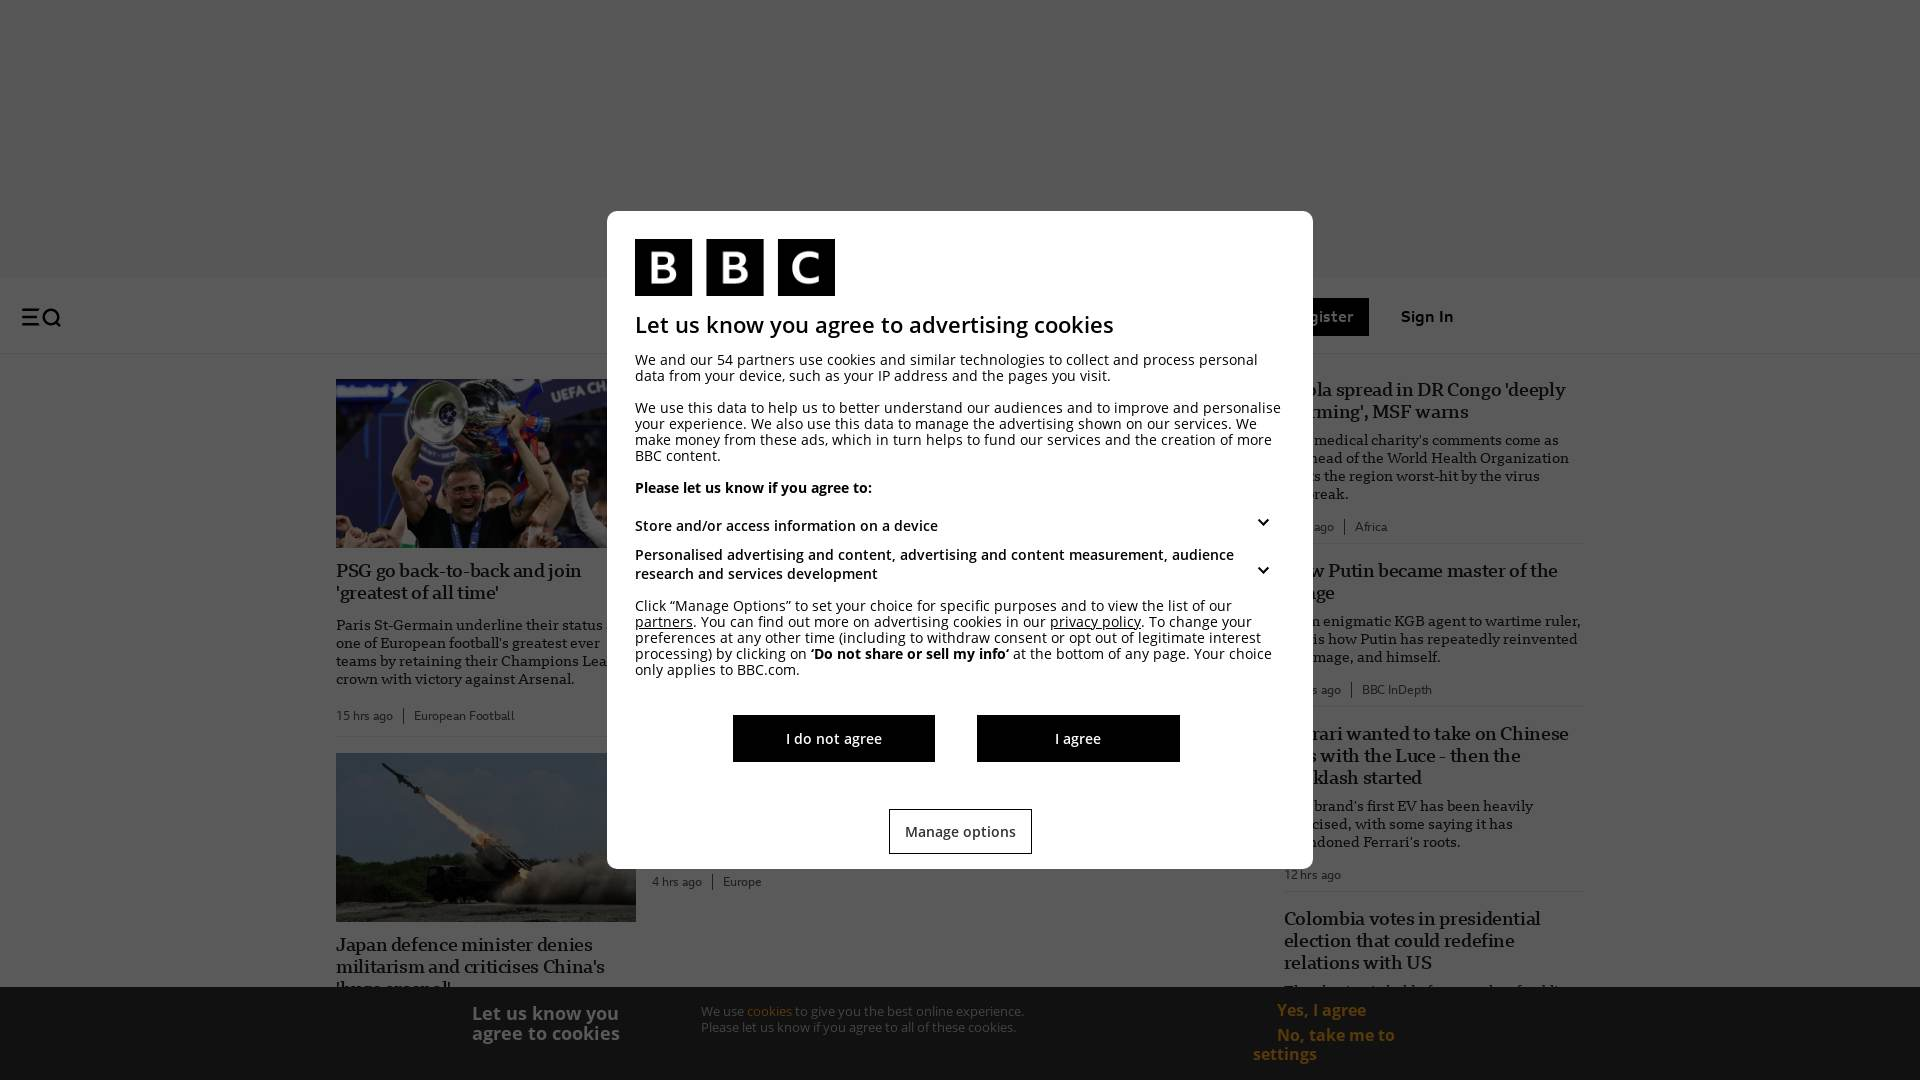
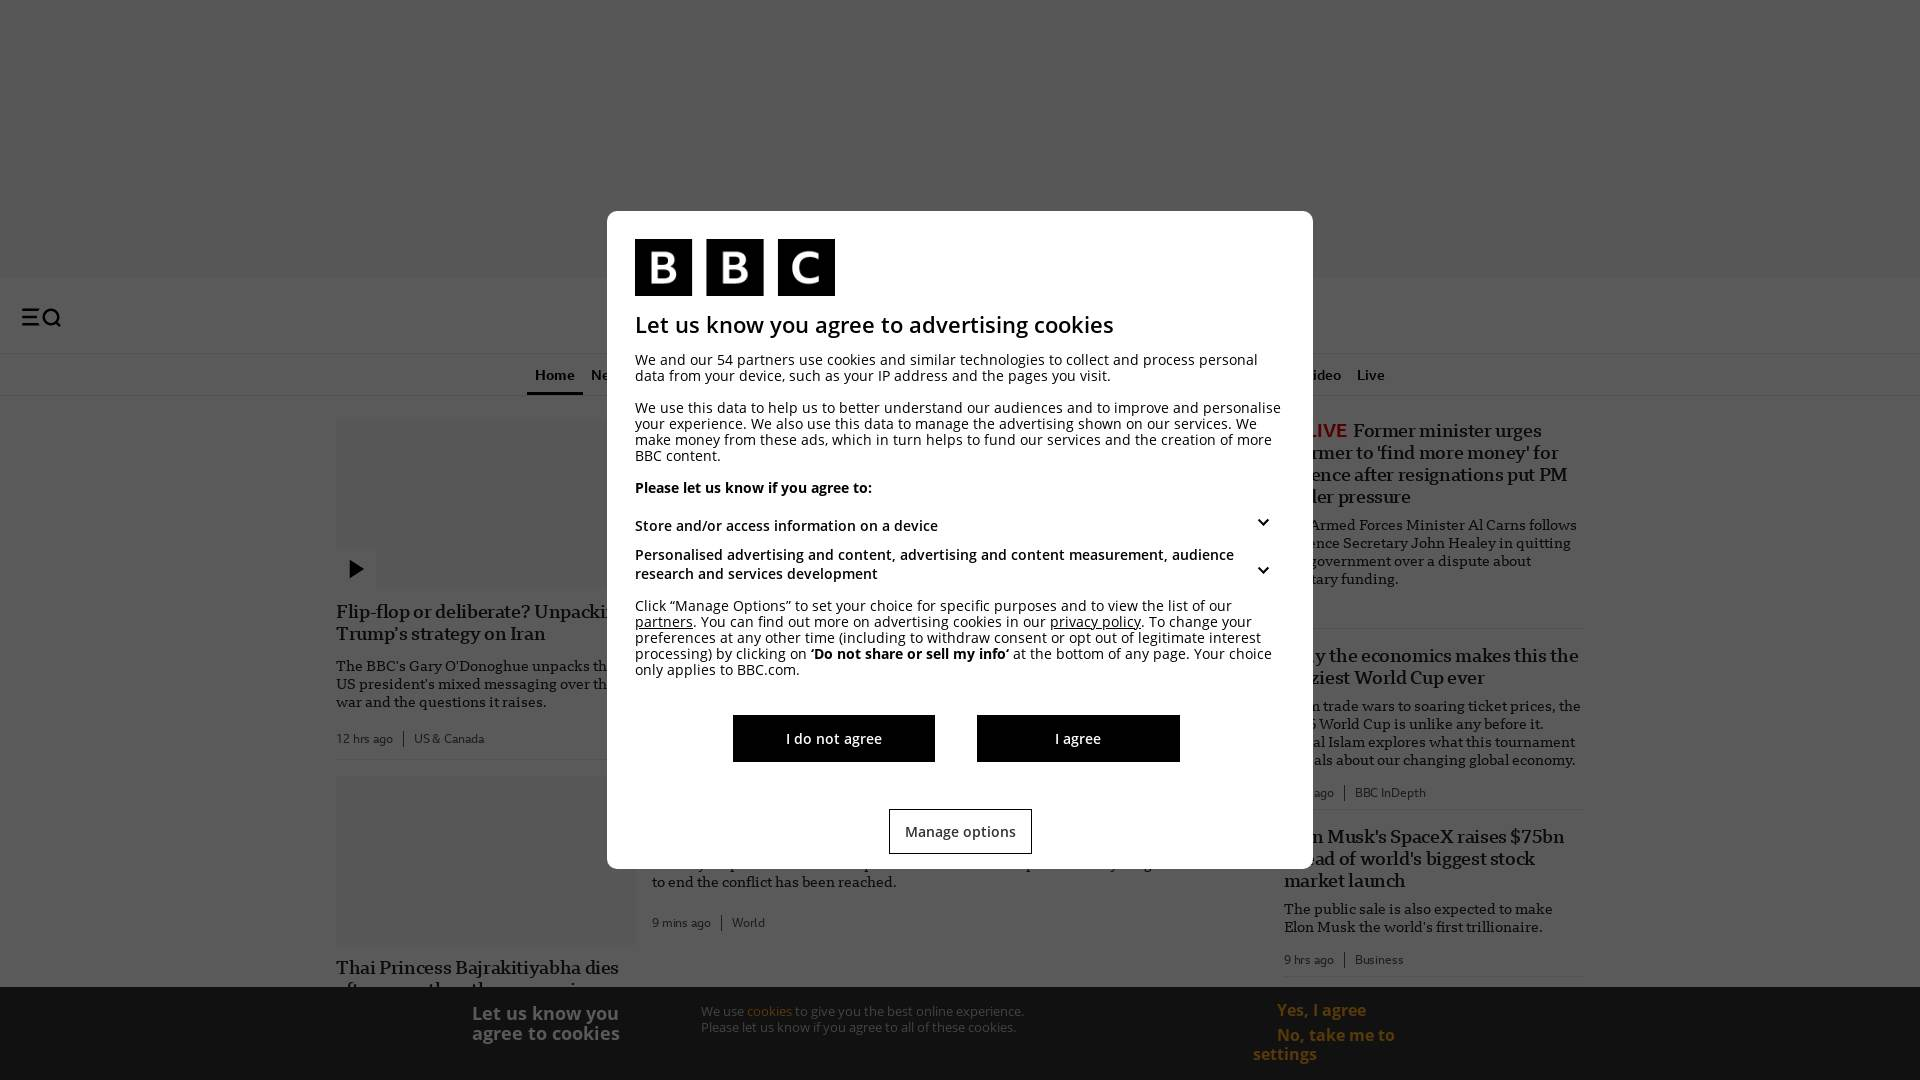
Disable show when video writer is enabled

Changed region(s): [[0.1562, 0.3361, 0.4688, 0.9167], [0.6562, 0.275, 0.8125, 0.9167]]

diff --git a/abraia/utils/video.py b/abraia/utils/video.py
@@ -10,6 +10,7 @@ import numpy as np
 from pathlib import Path
 from typing import Dict, Generator, List, Optional, Tuple, Callable, Any
 
+from . import make_dirs
 from .draw import (
     render_resolution,
     render_status,
@@ -18,6 +19,7 @@ from .draw import (
 )
 
 logger = logging.getLogger(__name__)
+
 
 VIDEO_SUFFIXES = (".mp4", ".avi", ".mov", ".mkv")
 IMAGE_EXTENSIONS: Tuple[str, ...] = (".jpg", ".jpeg", ".png", ".bmp")
@@ -36,9 +38,7 @@ def is_raspberry_pi() -> bool:
 
 
 class PiCamera2CaptureAdapter:
-    """
-    Adapter that makes Picamera2 behave like cv2.VideoCapture.
-    """
+    """Adapter that makes Picamera2 behave like cv2.VideoCapture."""
 
     def __init__(self, picam2):
         self.picam2 = picam2
@@ -80,7 +80,6 @@ class PiCamera2CaptureAdapter:
     def release(self):
         # stop new reads ASAP
         self._opened = False
-
         # wait if a read() is currently inside capture_array()
         with self._io_lock:
             try:
@@ -93,17 +92,19 @@ class PiCamera2CaptureAdapter:
                 pass
 
 
-def open_cv_capture(src: Any, source_type: str) -> Any:
+def open_cv_capture(src: Any, source_type: str, resolution=(1280, 720), fps=30) -> Any:
     """Open an OpenCV-based capture source."""
     if source_type == "video" and not os.path.exists(src):
         logger.error(f"File not found: {src}")
         sys.exit(1)
-
-    cap = cv2.VideoCapture(src)
+    cap = cv2.VideoCapture(int(src) if source_type == "usb_camera" else src)
+    if source_type == "usb_camera":
+        cap.set(cv2.CAP_PROP_FRAME_WIDTH, resolution[0])
+        cap.set(cv2.CAP_PROP_FRAME_HEIGHT, resolution[1])
+        cap.set(cv2.CAP_PROP_FPS, fps)
     if not cap.isOpened():
         logger.error(f"Failed to open {source_type} source: {src}")
         sys.exit(1)
-
     logger.info(f"Using {source_type} input: {src}")
     return cap
 
@@ -115,15 +116,12 @@ def open_rpi_camera(resolution=(1280, 720), fps=30) -> Optional[Any]:
     except Exception as e:
         logger.error(f"Picamera2 not available: {e}")
         return None
-
     try:
         picam2 = Picamera2()
         config = picam2.create_video_configuration(main={"size": resolution, "format": "RGB888"}, controls={"FrameRate": fps})
         picam2.configure(config)
         picam2.start()
-
         return PiCamera2CaptureAdapter(picam2)
-
     except Exception as e:
         logger.error(f"Failed to open RPi camera: {e}")
         try:
@@ -143,6 +141,16 @@ def is_stream_url(src: str) -> bool:
     return (src_lower.startswith("rtsp://") or src_lower.startswith("http://") or src_lower.startswith("https://"))
 
 
+def is_video(src: str) -> bool:
+    """Return True if the input is a video file."""
+    return os.path.isfile(src) and src.lower().endswith(VIDEO_SUFFIXES)
+
+
+def is_image(src: str) -> bool:
+    """Return True if the input is an image file."""
+    return os.path.isfile(src) and src.lower().endswith(IMAGE_EXTENSIONS)
+
+
 def load_images_opencv(images_path: str) -> List[np.ndarray]:
     path = Path(images_path)
     def read_rgb(p: Path):
@@ -159,6 +167,17 @@ def load_images_opencv(images_path: str) -> List[np.ndarray]:
     return []
 
 
+def get_input_type(src: Any) -> str:
+    """Determine the type of input source."""
+    src_str = str(src)
+    if src_str.isdigit():
+        return "rpi_camera" if is_raspberry_pi() else "usb_camera"
+    if is_stream_url(src_str):
+        return "stream"
+    if os.path.exists(src_str):
+        return "video" if is_video(src_str) else "images"
+
+
 class VideoInput:
     def __init__(
         self,
@@ -169,51 +188,38 @@ class VideoInput:
         video_unpaced: bool = False,
         stop_event: Optional[threading.Event] = None,
     ):
-        self.input_src = input_src
         self.batch_size = batch_size
         self.resolution = resolution
         self.frame_rate = frame_rate
         self.video_unpaced = video_unpaced
         self.stop_event = stop_event or threading.Event()
 
-        self.input_type = "unknown"
         self.cap = None
         self.images = None
-        self.source_fps = None
-        self.width = None
-        self.height = None
 
-        self._init_input()
-
-    def _init_input(self):
-        src = str(self.input_src)
-        if src.isdigit():
-            self.input_type = "rpi_camera" if is_raspberry_pi() else "usb_camera"
-        elif is_stream_url(src):
-            self.input_type = "stream"
-        elif os.path.exists(src):
-            self.input_type = "video" if any(src.lower().endswith(suffix) for suffix in VIDEO_SUFFIXES) else "images"
-        else:
-            logger.error(f"Invalid input '{src}'.")
+        self.input_type = get_input_type(input_src)
+        if not self.input_type:
+            logger.error(f"Invalid input '{input_src}'.")
             sys.exit(1)
 
+        self.width = None
+        self.height = None
+        self.source_fps = None
         if self.input_type == "images":
-            self.images = load_images_opencv(src)
+            self.images = load_images_opencv(input_src)
         else:
+            width, height = 1280, 720
+            if self.resolution in CAMERA_RESOLUTION_MAP:
+                width, height = CAMERA_RESOLUTION_MAP[self.resolution]
             if self.input_type == "rpi_camera":
-                self.cap = open_rpi_camera()
+                self.cap = open_rpi_camera(resolution=(width, height))
                 self.source_fps = 30
             else:
-                self.cap = open_cv_capture(int(src) if self.input_type == "usb_camera" else src, self.input_type)
-                if self.input_type == "usb_camera" and self.resolution in CAMERA_RESOLUTION_MAP:
-                    width, height = CAMERA_RESOLUTION_MAP[self.resolution]
-                    self.cap.set(cv2.CAP_PROP_FRAME_WIDTH, width)
-                    self.cap.set(cv2.CAP_PROP_FRAME_HEIGHT, height)
+                self.cap = open_cv_capture(input_src, self.input_type, resolution=(width, height))
+            if self.cap is not None:
                 self.source_fps = self.cap.get(cv2.CAP_PROP_FPS)
-
-        if self.cap is not None:
-            self.width = int(self.cap.get(cv2.CAP_PROP_FRAME_WIDTH) or 0)
-            self.height = int(self.cap.get(cv2.CAP_PROP_FRAME_HEIGHT) or 0)
+                self.width = int(self.cap.get(cv2.CAP_PROP_FRAME_WIDTH) or 0)
+                self.height = int(self.cap.get(cv2.CAP_PROP_FRAME_HEIGHT) or 0)
 
     @property
     def has_capture(self) -> bool:
@@ -280,11 +286,9 @@ class VideoInput:
 
 
 class VideoDisplay:
-    def __init__(self, save_output: Optional[str] = None, source_fps: Optional[float] = None, 
-                 frame_rate: Optional[float] = None, stop_event: Optional[threading.Event] = None):
-        self.save_output = save_output
+    def __init__(self, dest: Optional[str] = None, source_fps: Optional[float] = None, stop_event: Optional[threading.Event] = None):
+        self.dest = dest
         self.source_fps = source_fps
-        self.frame_rate = frame_rate
         self.stop_event = stop_event or threading.Event()
 
         self._count = 0
@@ -302,22 +306,6 @@ class VideoDisplay:
             self.video_writer.release()
         cv2.destroyAllWindows()
 
-    def _init_writer(self, width: int, height: int):
-        self.writer_frame_width = width
-        self.writer_frame_height = height
-
-        if self.save_output:
-            output_fps = self.frame_rate or (self.source_fps if self.source_fps and self.source_fps > 1 else 30.0)
-            output_path = Path(self.save_output)
-            if output_path.parent:
-                os.makedirs(output_path.parent, exist_ok=True)
-            self.video_writer = cv2.VideoWriter(
-                self.save_output,
-                cv2.VideoWriter_fourcc(*"XVID"),
-                output_fps,
-                (self.writer_frame_width, self.writer_frame_height)
-            )
-
     def show(self, frame: np.ndarray, fps: float, is_capture: bool = True) -> bool:
         if not hasattr(self, 'thickness'):
             self.thickness = calculate_optimal_thickness(frame.shape[:2])
@@ -327,23 +315,25 @@ class VideoDisplay:
         render_resolution(frame, thickness=self.thickness, text_scale=self.text_scale)
 
         output_bgr_frame = cv2.cvtColor(frame, cv2.COLOR_RGB2BGR)
-        cv2.imshow(self.window_name, output_bgr_frame)
-        
-        if (cv2.waitKey(1) & 0xFF) == ord("q"):
-            return False
-
-        if self.save_output:
+        if self.dest:
             if is_capture:
                 if self.video_writer is None:
-                    self._init_writer(frame.shape[1], frame.shape[0])
+                    make_dirs(self.dest)
+                    height, width = frame.shape[:2]
+                    fourcc = cv2.VideoWriter_fourcc(*"XVID")
+                    self.video_writer = cv2.VideoWriter(self.dest, fourcc, self.source_fps, (width, height))
                 if self.video_writer:
                     self.video_writer.write(output_bgr_frame)
             else:
-                path = Path(self.save_output)
+                path = Path(self.dest)
                 out_path = path.parent / f"{path.stem}_{self.image_index}{path.suffix}"
                 out_path.parent.mkdir(parents=True, exist_ok=True)
                 cv2.imwrite(str(out_path), output_bgr_frame)
                 self.image_index += 1
+        else:
+            cv2.imshow(self.window_name, output_bgr_frame)
+            if (cv2.waitKey(1) & 0xFF) == ord("q"):
+                return False
         return True
 
     def start(self):
@@ -420,9 +410,7 @@ class Video:
             self.duration = round(self.frames / self.fps, 3) if self.fps > 0 else 0
         self.frame_rate = self.fps
         if dest:
-            dirname = os.path.dirname(dest)
-            if dirname:
-                os.makedirs(dirname, exist_ok=True)
+            make_dirs(dest)
             fourcc = cv2.VideoWriter_fourcc(*'avc1')
             self.out = cv2.VideoWriter(dest, fourcc, self.fps, (self.width, self.height))
         self.t0 = time.time()
@@ -469,13 +457,17 @@ class Video:
         render_status(frame, fps=1 / (t1 - self.t0) if t1 > self.t0 else 0)
         render_resolution(frame)
         self.t0 = t1
-        if not self.win_name:
-            self.win_name = 'Video'
-            cv2.namedWindow(self.win_name, cv2.WINDOW_GUI_NORMAL)
-        cv2.imshow(self.win_name, cv2.cvtColor(frame, cv2.COLOR_RGB2BGR))
-        ch = 0xFF & cv2.waitKey(int(self.fps) if self.fps > 0 else 1)
-        if (ch == 27 or ch == ord('q')) or cv2.getWindowProperty(self.win_name, cv2.WND_PROP_VISIBLE) < 1:
-            self.quit = True
+        out = cv2.cvtColor(frame, cv2.COLOR_RGB2BGR)
+        if self.out:
+            self.out.write(out)
+        else:
+            if not self.win_name:
+                self.win_name = 'Video'
+                cv2.namedWindow(self.win_name, cv2.WINDOW_GUI_NORMAL)
+            cv2.imshow(self.win_name, out)
+            ch = cv2.waitKey(1) & 0xFF
+            if (ch == 27 or ch == ord('q')) or cv2.getWindowProperty(self.win_name, cv2.WND_PROP_VISIBLE) < 1:
+                self.quit = True
 
 
 if __name__ == "__main__":

diff --git a/abraia/demo.py b/abraia/demo.py
@@ -14,10 +14,18 @@ from abraia.utils import Video, download_url, load_image, show_image
 
 
 DEMOS = {
+    'tomato': {
+        'model': 'multiple/tomato/yolov8n_v6.onnx',
+        'src': '10179855-hd_1920_1080_30fps.mp4',
+        'labels': ['tomato'],
+        'counter': [(1440, 0), (1440, 1080)],
+        'dest': 'tomato_onnx.mp4'
+    },
     'apple': {
         'model': 'multiple/models/yolov8n-seg.onnx',
         'src': '5479199-hd_1920_1080_25fps.mp4',
-        'labels': ['apple']
+        'labels': ['apple'],
+        'dest': 'apple_onnx.mp4'
     },
     'strawberry': {
         'model': 'multiple/strawberry/yolov8n.onnx',
@@ -28,12 +36,6 @@ DEMOS = {
         'model': 'multiple/grapes/yolov8n.onnx',
         'src': '5658544-hd_1366_720_24fps.mp4',
         'labels': ['grapes']
-    },
-    'tomato': {
-        'model': 'multiple/tomato/yolov8n_v6.onnx',
-        'src': '10179855-hd_1920_1080_30fps.mp4',
-        'labels': ['tomato'],
-        'counter': [(1440, 0), (1440, 1080)]
     },
     'people': {
         'src': '853889-hd_1920_1080_25fps.mp4',
@@ -60,13 +62,18 @@ HAILO_DEMOS = {
     'tomato': {
         'hef_path': 'multiple/tomato/yolov8n.hef',
         'src': '10179855-hd_1920_1080_30fps.mp4',
-        'save_output': 'tomato_hailo.mp4'
+        'dest': 'tomato_hef.mp4'
+    },
+    'apple': {
+        'hef_path': 'yolov5m_seg_with_nms',
+        'task': 'segment',
+        'src': '5479199-hd_1920_1080_25fps.mp4',
+        'dest': 'apple_hef.mp4'
     },
     'segment': {
         'hef_path': 'yolov5m_seg_with_nms',
         'task': 'segment',
-        'src': '5479199-hd_1920_1080_25fps.mp4',
-        'save_output': 'apple_hailo.mp4'
+        'src': '5479199-hd_1920_1080_25fps.mp4'
     },
     'pose': {
         'hef_path': 'yolov8m_pose',
@@ -83,7 +90,7 @@ def monitor_objects(src=None, demo='detect', resolution=(1280, 720)):
     if isinstance(src, str) and not os.path.exists(src) and src.endswith('.mp4'):
         download_url(f"https://api.abraia.me/files/multiple/videos/{src}", src)
 
-    video = Video(src, resolution=resolution)
+    video = Video(src, resolution=resolution, dest=selected.get('dest'))
     tracker = Tracker(frame_rate=video.frame_rate)
     model = Model(selected.get('model', 'multiple/models/yolov8n.onnx'))
     
@@ -109,6 +116,8 @@ def monitor_objects(src=None, demo='detect', resolution=(1280, 720)):
             results = in_objects
         out = render_results(out, results)
         print(f"#{k} {round((time.time() - t0) * 1000, 1)}ms {count_objects(results)}")
+        if video.out:
+            video.write(out)
         video.show(out)
 
     if line_counter:

diff --git a/abraia/hailo/detect.py b/abraia/hailo/detect.py
@@ -33,7 +33,7 @@ DEFAULT_OPTIONS = {
     "frame_rate": None,
     "camera_resolution": None,
     "video_unpaced": False,
-    "save_output": None
+    "dest": None
 }
 
 CONFIG_DATA = {
@@ -110,8 +110,8 @@ def run_inference_pipeline(
 
     logger.info(visualizer.frame_rate_summary())
     logger.info("Processing completed successfully.")
-    if visualizer.save_output:
-        logger.info(f"Saved outputs to '{visualizer.save_output}'.")
+    if visualizer.dest:
+        logger.info(f"Saved outputs to '{visualizer.dest}'.")
 
 
 def main(**kwargs) -> None:
@@ -154,9 +154,8 @@ def main(**kwargs) -> None:
     )
 
     visualizer = VideoDisplay(
-        save_output=args.save_output,
+        dest=args.dest,
         source_fps=input_data.source_fps,
-        frame_rate=args.frame_rate,
         stop_event=stop_event
     )
 